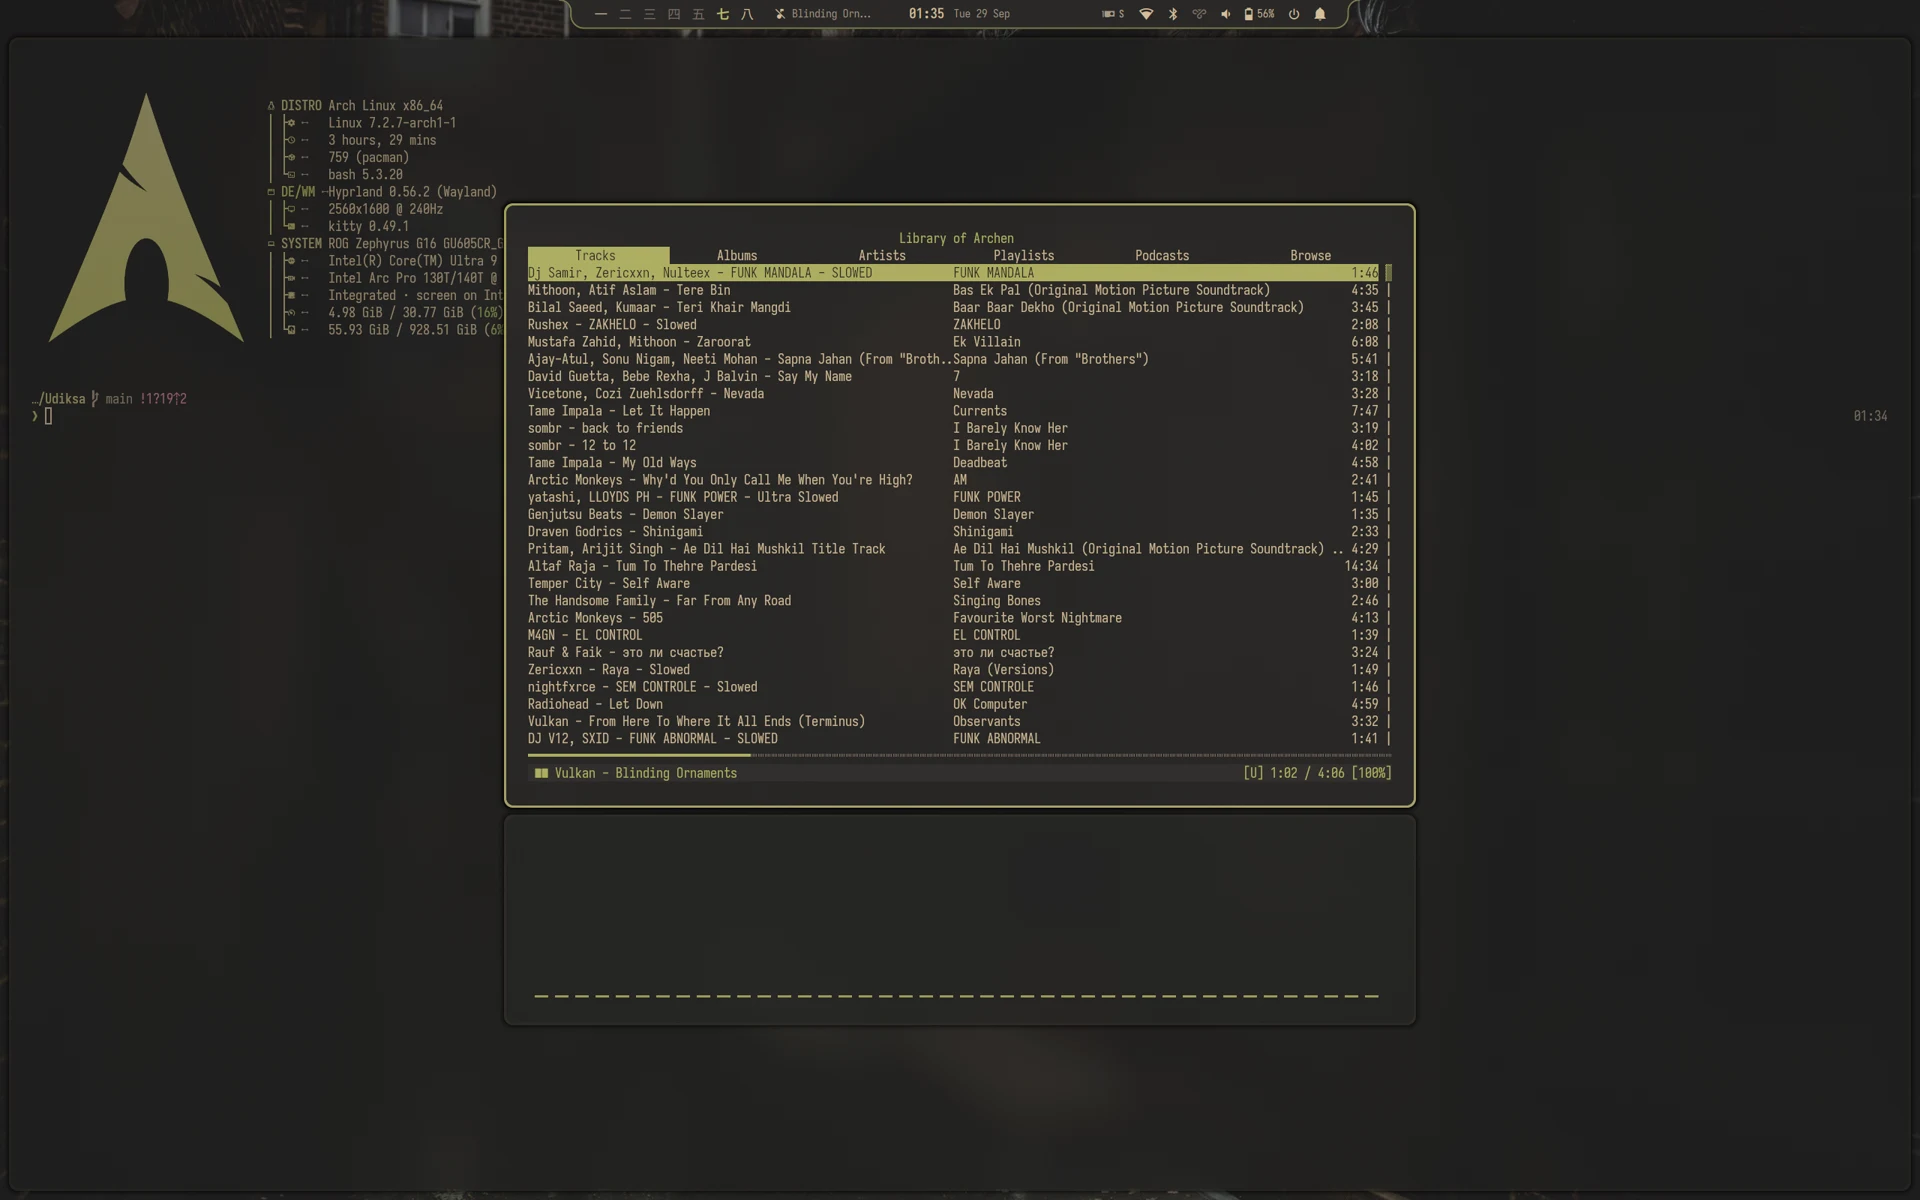
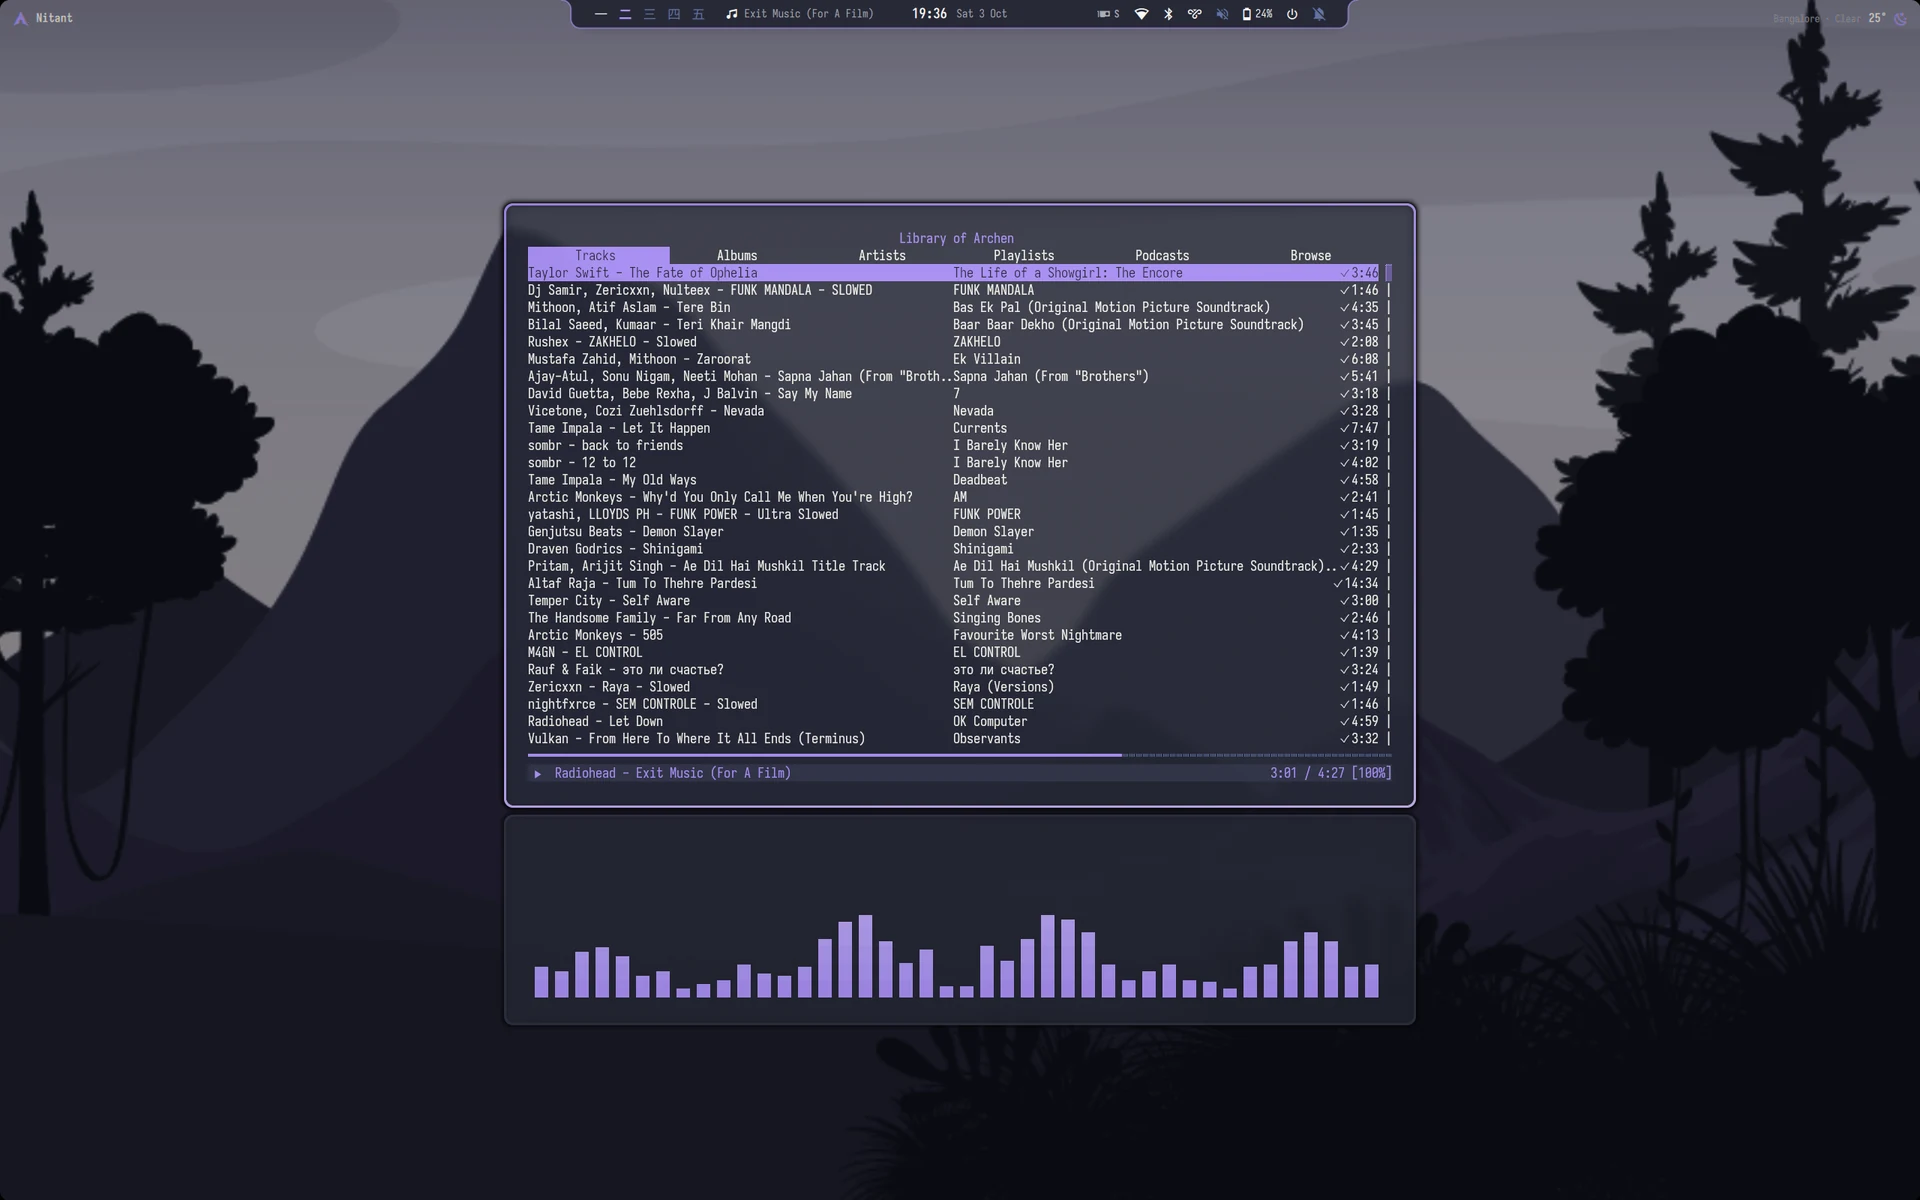
README: every screenshot in a different theme, Themes section with how to add or remove one, video placeholder
Notch panels, Settings pages, the switcher, music and the desktop are now each shown in another theme
(captions name it). Less weight on the theme count; the live recolouring of open apps and the clock are
mentioned.

diff --git a/README.md b/README.md
@@ -3,20 +3,27 @@
 # Udiksa
 
 **A calm, retro-hardware desktop for Arch Linux: Hyprland, a hand-made Quickshell shell that lives in a notch,
-and 22 themes that recolour everything from the boot menu to the mouse pointer.**
+and themes that recolour everything, from the boot menu to the mouse pointer and the windows already open.**
 
 [![Arch Linux](https://img.shields.io/badge/Arch%20Linux-1793D1?style=for-the-badge&logo=archlinux&logoColor=white)](https://archlinux.org)
 [![Hyprland](https://img.shields.io/badge/Hyprland-0.56-58E1FF?style=for-the-badge&logo=hyprland&logoColor=white)](https://hypr.land)
 [![Quickshell](https://img.shields.io/badge/Quickshell-QML-a9b665?style=for-the-badge)](https://quickshell.org)
 [![License: MIT](https://img.shields.io/badge/License-MIT-d8a657?style=for-the-badge)](LICENSE)
 
-<img src="docs/screenshots/desktop.webp" alt="Udiksa desktop: fastfetch and btop, Gruvbox Material theme" width="100%">
+<img src="docs/screenshots/desktop.webp" alt="Udiksa desktop: btop, fastfetch and cava, Gruvbox Material theme" width="100%">
 
-[Highlights](#highlights) · [Themes](#22-themes-one-key) · [Notch](#the-notch) · [Settings](#settings) · [Install](#install) · [Keys](#keys) · [Limitations](#limitations) · [Credits](#credits)
+[Video](#video) · [Highlights](#highlights) · [Themes](#themes) · [Notch](#the-notch) · [Settings](#settings) · [Install](#install) · [Keys](#keys) · [Limitations](#limitations) · [Credits](#credits)
 
 </div>
 
 ---
+
+## Video
+
+<!-- VIDEO PLACEHOLDER: on github.com, edit this file, delete the "coming soon" line below and drag
+     udiksa-showcase.mp4 into its place. GitHub uploads it and puts a link there that shows as a player. -->
+
+*A short tour (notch, tiling, live theme switching, Settings) is coming soon.*
 
 ## Details
 
@@ -30,7 +37,7 @@ and 22 themes that recolour everything from the boot menu to the mouse pointer.*
 | **Font** | Iosevka Nerd Font |
 | **Mouse pointer** | Bibata, recoloured with the theme; grows when you shake it |
 | **GTK / Qt** | adw-gtk3 / Kvantum, recoloured with the theme |
-| **Colours** | 22 hand-tuned themes, each tinted by its wallpaper (matugen) |
+| **Themes** | a folder of wallpapers + one colour file each, tinted by every wallpaper (matugen); add your own |
 | **Wallpapers** | awww, animated transitions |
 | **Boot** | themed GRUB menu, Plymouth splash, hibernation |
 
@@ -40,9 +47,9 @@ and 22 themes that recolour everything from the boot menu to the mouse pointer.*
   icons. Hover or click any part and it grows into a panel: launcher, system, sound, Wi-Fi, Bluetooth, calendar and
   weather, media, battery, notifications. Volume, brightness and other changes show inside it, and so do
   notifications. No pop-up windows anywhere.
-- **22 themes, one key.** <kbd>Super</kbd>+<kbd>T</kbd> opens the theme switcher. Everything follows at once: window
-  borders, the shell, the terminal, GTK and Qt apps, btop, fastfetch, ncspot, cava, the screenshot editor, the mouse
-  pointer, the login screen and the GRUB menu. Drop pictures into a new folder and it becomes a theme.
+- **Live themes.** <kbd>Super</kbd>+<kbd>T</kbd> opens the theme switcher. Everything follows at once, windows that
+  are already open included: the shell, window borders, the terminal and its prompt, btop, fastfetch, cava, cmatrix,
+  the clock, ncspot, GTK and Qt apps, the screenshot editor, the mouse pointer, the login screen and the GRUB menu.
 - **A real Settings app** (<kbd>Super</kbd>+<kbd>I</kbd>), in the same style: tiling layout, gaps, corners and
   animations; displays (resolution, scale, rotation, several monitors); sound per app; mouse, keyboard and touchpad;
   Wi-Fi, Bluetooth, Tailscale; battery, sleep and hibernation; default and startup apps; shortcuts. Every change
@@ -50,7 +57,7 @@ and 22 themes that recolour everything from the boot menu to the mouse pointer.*
 - **Retro-hardware controls.** LED bars instead of sliders, keys that press in, hairline switches, Iosevka
   everywhere. Rounded screen corners match the windows.
 - **Tools built in.** Screen recording (GPU-encoded, with or without sound), a colour picker, screenshots you can
-  draw on, keep awake, game mode, a usage panel (CPU per core, memory, network, disks, busiest programs), app
+  draw on, keep awake, game mode, a terminal clock (`clock`), a usage panel (CPU per core, memory, network, disks, busiest programs), app
   scratchpads (system monitor, music, chat), clipboard history, emoji, a calculator, low-battery warnings.
 - **Yours stays yours.** Everything you change in Settings lives in a personal layer (`~/.config/hypr/local/`),
   apart from the design, so updating the rice never overwrites your choices.
@@ -58,17 +65,33 @@ and 22 themes that recolour everything from the boot menu to the mouse pointer.*
   works on your hardware. ASUS laptops and hybrid NVIDIA laptops get extra controls (performance modes, fan curves,
   GPU modes, keyboard light, charge limit), offered only where they fit.
 
-## 22 themes, one key
+## Themes
 
-<img src="docs/screenshots/themes.webp" alt="Switching between themes" width="100%">
+<img src="docs/screenshots/themes.webp" alt="Gruvbox Material to Everforest Light: btop, cmatrix and fastfetch recolour while open" width="100%">
 
-Each theme is a folder of wallpapers with a colour file. Every wallpaper tints the palette a little, so no two feel the
-same. Add your own: make a folder in `~/Pictures/Wallpapers`, drop pictures in, and the colours are made from them.
+Pick a theme and a wallpaper in the switcher (<kbd>Super</kbd>+<kbd>T</kbd>, arrow keys and Enter, or the mouse).
+Every wallpaper tints its theme's colours a little, so no two feel the same, and open apps change colour in place:
+nothing needs restarting.
 
-<img src="docs/screenshots/switcher.webp" alt="The theme switcher (Super+T)" width="100%">
+<img src="docs/screenshots/switcher.webp" alt="The theme switcher (Super+T), Tokyo Night" width="100%">
+
+### Add or remove a theme
+
+A theme is just a folder in `~/Pictures/Wallpapers/`.
+
+- **Add one:** make a folder, put pictures in it (`.jpg`, `.png`, `.webp`). It shows up in the switcher; the first
+  time you pick it, its colours are made from its pictures and saved as `colors.toml` in that folder.
+- **From GitHub:** `rice-theme import <link>` fetches a theme repository that has a `colors.toml` and pictures.
+- **More wallpapers:** drop more pictures into a theme's folder.
+- **Change its colours:** edit `colors.toml` in the folder (every line says what it colours; `accent` is the main
+  one), then run `rice-theme reapply`. `rice-theme colors <picture>` shows the colours a picture would give.
+  Delete `colors.toml` to have them made from the pictures again.
+- **Remove one:** delete its folder.
+
+`~/Pictures/Wallpapers/README.txt` explains every colour in detail, with a worked example.
 
 <details>
-<summary><b>All themes</b></summary>
+<summary><b>Themes that come with it</b></summary>
 
 <br>
 
@@ -82,16 +105,16 @@ Rosé Pine Dawn · Solarized Dark · Terafox · Tokyo Night · Vantablack · Whi
 
 ## The notch
 
-| Launcher (<kbd>Super</kbd>+<kbd>R</kbd>) | System |
+| Launcher (<kbd>Super</kbd>+<kbd>R</kbd>) · Graphite | System · Catppuccin Mocha |
 |:---:|:---:|
 | <img src="docs/screenshots/notch-launcher.webp" alt="Launcher: apps, clipboard, emoji, calculator, scripts"> | <img src="docs/screenshots/notch-system.webp" alt="System panel: performance mode, GPU, screen, fans"> |
 | Apps, clipboard, emoji, calculator, windows, maintenance scripts | Performance mode, GPU, refresh rate, keyboard light, fans |
 
-| Calendar | Sound |
+| Calendar and weather · Everforest Light | Sound · Rosé Pine |
 |:---:|:---:|
 | <img src="docs/screenshots/notch-clock.webp" alt="Calendar with events, timer and alarms"> | <img src="docs/screenshots/notch-volume.webp" alt="Sound panel: output, microphone, devices"> |
 
-| Media | Battery |
+| Media · Gruvbox Dark | Battery · Nord |
 |:---:|:---:|
 | <img src="docs/screenshots/notch-media.webp" alt="Media controls for any player"> | <img src="docs/screenshots/notch-battery.webp" alt="Battery: charge, time left, charge limit"> |
 
@@ -99,11 +122,11 @@ Rosé Pine Dawn · Solarized Dark · Terafox · Tokyo Night · Vantablack · Whi
 
 A full settings app in the same style as the rest: every change applies live.
 
-| Windows and tiling | Display |
+| Windows and tiling · Gruvbox Material | Display · Terafox |
 |:---:|:---:|
 | <img src="docs/screenshots/settings-look.webp" alt="Settings: tiling layout, gaps, borders, shadows"> | <img src="docs/screenshots/settings-display.webp" alt="Settings: resolution, scale, rotation, monitors"> |
 
-| Battery and sleep | Themes and colours |
+| Battery and sleep · Tokyo Night | Themes and colours · Everforest Dark |
 |:---:|:---:|
 | <img src="docs/screenshots/settings-power.webp" alt="Settings: idle timers, lid, hibernation"> | <img src="docs/screenshots/settings-themes.webp" alt="Settings: edit a theme's colours"> |
 
@@ -112,11 +135,11 @@ A full settings app in the same style as the rest: every change applies live.
 
 <br>
 
-| Mouse and keyboard | Apps |
+| Mouse and keyboard · Catppuccin Latte | Apps · One Dark |
 |:---:|:---:|
 | <img src="docs/screenshots/settings-keyboard.webp" alt="Settings: layout, repeat, keyboard light, touchpad"> | <img src="docs/screenshots/settings-apps.webp" alt="Settings: default and startup apps"> |
 
-| Performance (ASUS) | GPU (hybrid NVIDIA) |
+| Performance (ASUS) · Monokai Pro | GPU (hybrid NVIDIA) · Solarized Dark |
 |:---:|:---:|
 | <img src="docs/screenshots/settings-perf.webp" alt="Settings: performance modes, power limits, fan curve"> | <img src="docs/screenshots/settings-gpu.webp" alt="Settings: GPU mode, temperature target, GPU fan"> |
 
@@ -124,7 +147,7 @@ A full settings app in the same style as the rest: every change applies live.
 
 ## Music
 
-ncspot (Spotify in the terminal) with a cava visualiser, floating on the scratchpad, themed like everything else.
+ncspot (Spotify in the terminal) with a cava visualiser, floating on the scratchpad, themed like everything else (here: Dracula).
 
 <img src="docs/screenshots/music.webp" alt="ncspot and cava on the scratchpad" width="100%">
 
